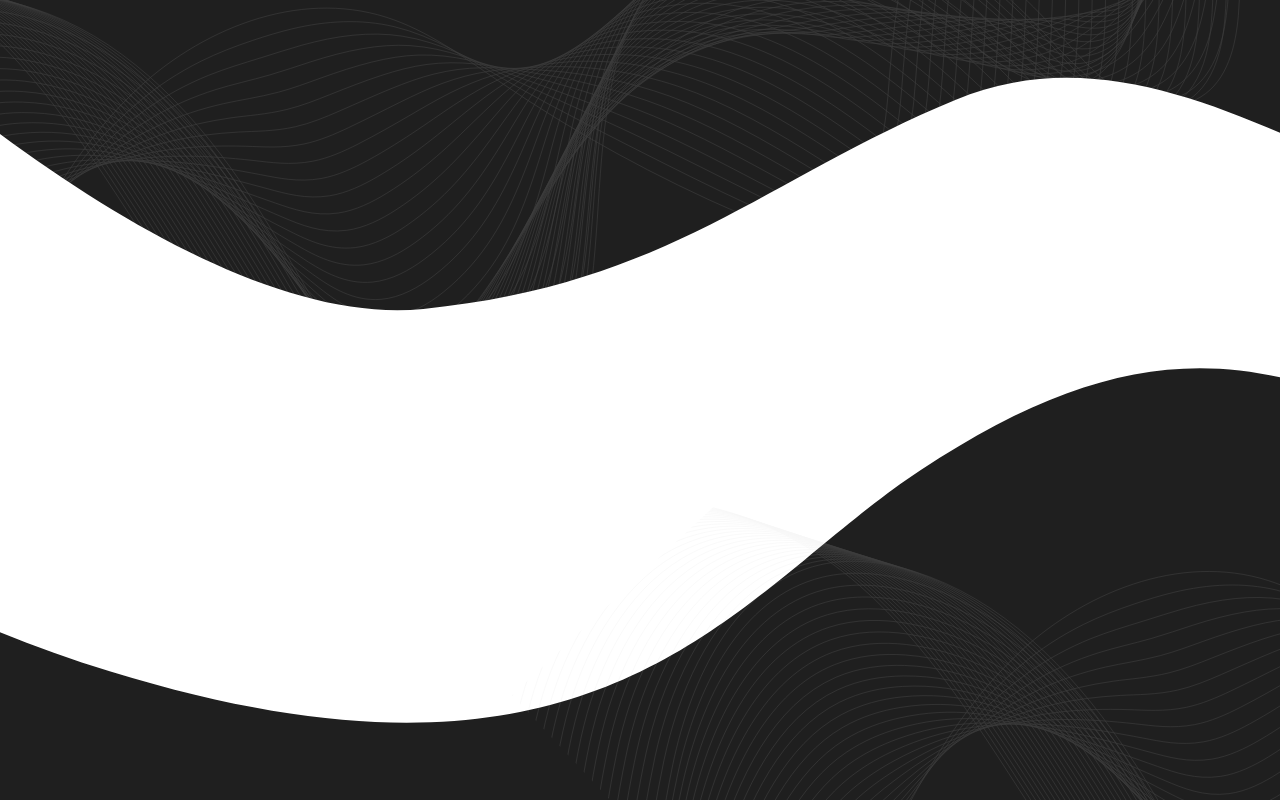
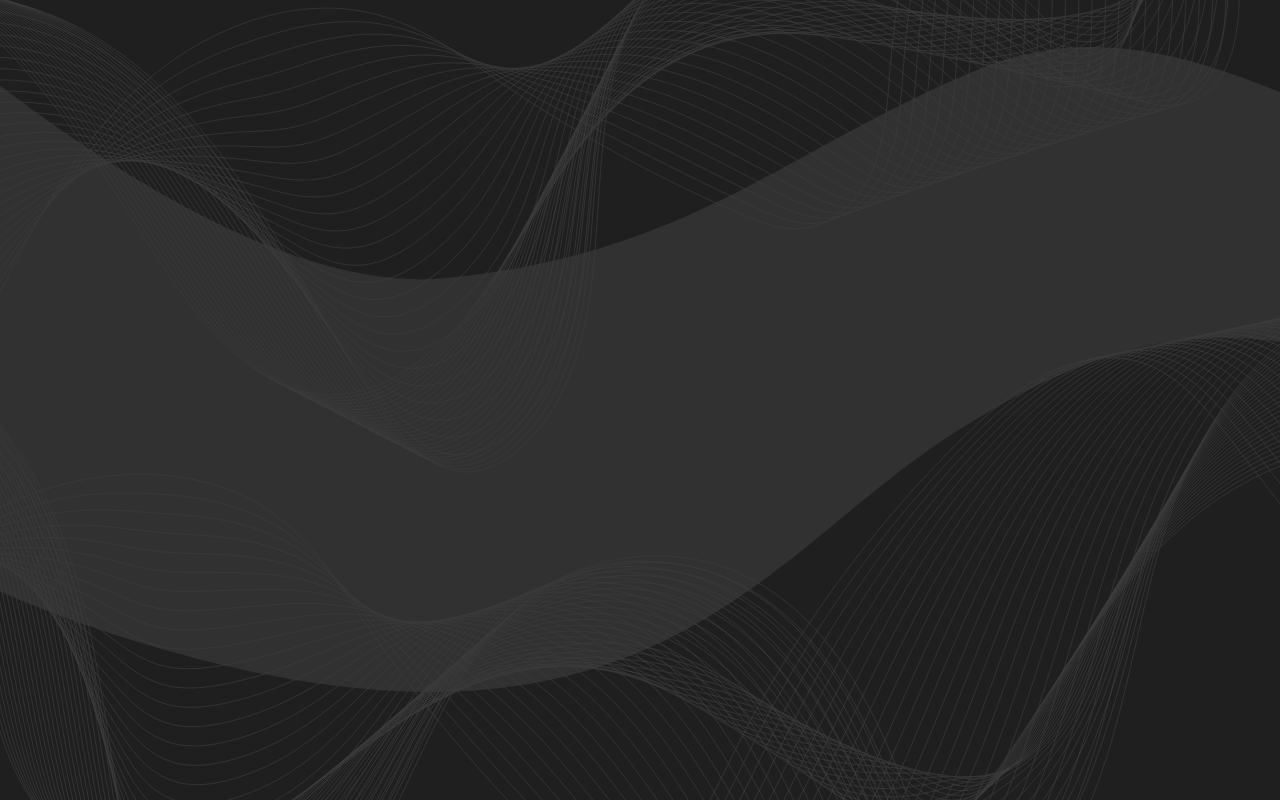
"Landing Page" - gin change ko lang some elements.

diff --git a/backend/landing-page.html b/backend/landing-page.html
@@ -34,20 +34,20 @@
             <div class="col-md-6 text-center">
                 <div class="web-name">ETipid</div>
                     <div class="col par-1 my-5">
-                        <p>Your Budget <br>
-                            Planner,<span class="par-1-span"> and <br>
+                        <p>Your Budget 
+                            Planner, and 
                             Finance Tracker</span>
                         </p>
                     </div>
                     <div class="col text-white my-5">
-                        <p> <span class="par-2-span">ETipid is a financial assistance that guides you <br>
-                            to track your outgoing finances with specific categories, <br>
+                        <p> <span class="par-2-span">ETipid is a financial assistance that guides you
+                            to track your outgoing finances with specific categories,
                             which would acquaint you with your expenses to achieve better budgeting.</span>
                         </p>
                     </div>
                     
                     <div>
-                        <a href="./dashboard.html" class="btn btn-dark">Continue</a>
+                        <a href="./dashboard.html" class="btn btn-light">Continue</a>
                     </div>
                 </div>
             <div class="col-md-6">

diff --git a/backend/landing-page.css b/backend/landing-page.css
@@ -9,25 +9,20 @@
 .web-name {
   font-weight: bold;
   font-size: 3rem;
-  margin-bottom: 90px;
+  margin-bottom: 50px;
   margin-top: 90px;
-  color: whitesmoke;    
-  
+  color: rgb(128, 128, 128);
 }
 
 .par-1 {
   font-size: 4.3rem;
   line-height: 4.5rem;
-  color: linear-gradient(rgb(50, 50, 50) 0%, rgb(63, 63, 63) 40%, rgb(28, 28, 28) 150%), linear-gradient(to top, rgba(255, 255, 255, 0.4) 0%, rgba(0, 0, 0, 0.25) 200%);
+  color: rgb(255, 255, 255);
   font-weight: bold;
 }
 
-.par-1-span {
-  color: rgb(103, 100, 100);
-}
-
 .par-2-span {
-  color: rgb(63, 63, 63);
+  color: rgb(128, 128, 128);
   font-size: 1rem;
   font-family: Arial, sans-serif;
 }
